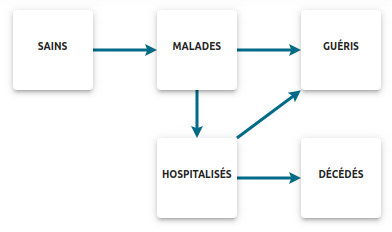
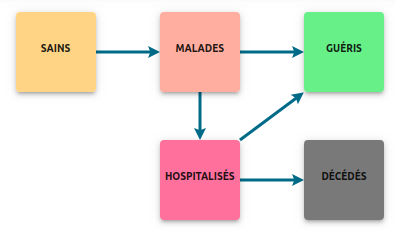
Update colors everywhere

diff --git a/src/screens/simulation/Chart.js b/src/screens/simulation/Chart.js
@@ -6,6 +6,8 @@ import { merge } from 'lodash';
 import c3 from 'c3';
 import 'c3/c3.css';
 
+import colors from './colors';
+
 const generateDateInterval = (startDate, numberOfDays) =>
     eachDayOfInterval({
         start: startDate,
@@ -32,42 +34,42 @@ const data = ({ t, values, startDate }) => {
             {
                 label: capitalize(t('chart.exposed')),
                 data: SE,
-                backgroundColor: 'rgba(255, 206, 86, 0.6)',
+                backgroundColor: colors.exposed.main,
             },
             {
                 label: capitalize(t('chart.incub')),
                 data: INCUB,
-                backgroundColor: 'rgba(164, 18, 179, 0.6)',
+                backgroundColor: colors.incubation.main,
             },
             {
                 label: capitalize(t('chart.recovered')),
                 data: R,
-                backgroundColor: 'rgba(88, 235, 88, 0.6)',
+                backgroundColor: colors.recovered.main,
             },
             {
                 label: capitalize(t('chart.intensive_care')),
                 data: SI,
-                backgroundColor: 'rgba(54, 162, 235, 0.6)',
+                backgroundColor: colors.intensive_care.main,
             },
             {
                 label: capitalize(t('chart.normal_care')),
                 data: SM,
-                backgroundColor: 'rgba(255, 88, 132, 0.6)',
+                backgroundColor: colors.normal_care.main,
             },
             {
                 label: capitalize(t('chart.following_hospitalized')),
                 data: SS,
-                backgroundColor: 'rgba(54, 54, 255, 0.6)',
+                backgroundColor: colors.following_care.main,
             },
             {
                 label: capitalize(t('chart.dead')),
                 data: DC,
-                backgroundColor: 'rgba(88, 88, 88, 0.6)',
+                backgroundColor: colors.death.main,
             },
             {
                 label: capitalize(t('chart.infected')),
                 data: I,
-                backgroundColor: 'rgba(255, 158, 132, 0.6)',
+                backgroundColor: colors.infected.main,
             },
         ],
     };
@@ -166,15 +168,15 @@ const Chart = React.forwardRef(
                         {},
                     ),
                     order: (d1, d2) => {
-                        // Sort legend by smaller values first
+                        // Sort legend by bigger values first
                         return (
                             Math.max(
                                 0,
-                                d1.values.map((i) => i.value),
+                                d2.values.map((i) => i.value),
                             ) -
                             Math.max(
                                 0,
-                                d2.values.map((i) => i.value),
+                                d1.values.map((i) => i.value),
                             )
                         );
                     },

diff --git a/src/screens/simulation/PublicSimulation.js b/src/screens/simulation/PublicSimulation.js
@@ -17,6 +17,7 @@ import DateField from '../../components/fields/DateField';
 import ProportionField from '../../components/fields/ProportionField';
 import AutoSave from '../../components/fields/AutoSave';
 import PublicDescriptionModal from './PublicDescriptionModal';
+import colors from './colors';
 
 const useStyles = makeStyles((theme) => ({
     root: {
@@ -181,6 +182,7 @@ const Legend = ({ stats, onLegendEnter = () => {}, onLegendLeave = () => {}, mob
                             {...addMouseProps(['Exposés'])}
                             label="Sains"
                             value={stats['Exposés'] || ''}
+                            color={colors.exposed.bg}
                         />
                     </Node>
                     <Node
@@ -200,6 +202,7 @@ const Legend = ({ stats, onLegendEnter = () => {}, onLegendLeave = () => {}, mob
                             {...addMouseProps(['Incubation', 'Infectés'])}
                             label="Malades"
                             value={(stats['Incubation'] || 0) + (stats['Infectés'] || 0) || ''}
+                            color={colors.infected.bg}
                         />
                     </Node>
                     <Node name="gueri" targets={[]}>
@@ -207,6 +210,7 @@ const Legend = ({ stats, onLegendEnter = () => {}, onLegendLeave = () => {}, mob
                             {...addMouseProps(['Guéris'])}
                             label="Guéris"
                             value={stats['Guéris'] || ''}
+                            color={colors.recovered.bg}
                         />
                     </Node>
                 </div>
@@ -237,6 +241,7 @@ const Legend = ({ stats, onLegendEnter = () => {}, onLegendLeave = () => {}, mob
                                     (stats['Soins intensifs'] || 0) +
                                     (stats['Soins medicaux'] || 0) || ''
                             }
+                            color={colors.intensive_care.bg}
                         />
                     </Node>
                     <Node name="decede" targets={[]}>
@@ -244,6 +249,7 @@ const Legend = ({ stats, onLegendEnter = () => {}, onLegendLeave = () => {}, mob
                             {...addMouseProps(['Décédés'])}
                             label="Décédés"
                             value={stats['Décédés'] || ''}
+                            color={colors.death.bg}
                         />
                     </Node>
                 </div>

diff --git a/src/screens/simulation/Diagram.js b/src/screens/simulation/Diagram.js
@@ -5,6 +5,7 @@ import { GraphProvider } from '../../components/Graph/GraphProvider';
 import { Node } from '../../components/Graph/Node';
 import { Edges } from '../../components/Graph/Edges';
 import { SwitchPercentField } from '../../components/fields/SwitchPercentField';
+import colors from './colors';
 
 const sirEdgesColorCode = '#00688B';
 const hEdgesColorCode = 'red';
@@ -38,33 +39,6 @@ const GridWithLeftGutter = ({ children, ...props }) => (
         </Grid>
     </Grid>
 );
-
-const colors = {
-    incubation: {
-        main: 'rgb(164, 18, 179)',
-        bg: 'rgba(164, 18, 179, 0.6)',
-    },
-    normal_care: {
-        main: 'rgb(255, 88, 132)',
-        bg: 'rgba(255, 88, 132, 0.6)',
-    },
-    intensive_care: {
-        main: 'rgb(54, 162, 235)',
-        bg: 'rgba(54, 162, 235, 0.6)',
-    },
-    following_care: {
-        main: 'rgb(54, 54, 255)',
-        bg: 'rgba(54, 54, 255, 0.6)',
-    },
-    death: {
-        main: 'rgb(88, 88, 88)',
-        bg: 'rgba(88, 88, 88, 0.6)',
-    },
-    recovered: {
-        main: 'rgb(88, 235, 88)',
-        bg: 'rgba(88, 235, 88, 0.6)',
-    },
-};
 
 export default ({
     blocks: {
@@ -114,7 +88,7 @@ export default ({
                     },
                 ]}
             >
-                <BlockContainer color="rgba(255, 206, 86, 0.6)">{exposedPopulation}</BlockContainer>
+                <BlockContainer color={colors.exposed.bg}>{exposedPopulation}</BlockContainer>
             </Node>
         </Grid>
         <Grid container item xs={12} justify="center" style={{ margin: linesMargin }}>

diff --git a/src/screens/simulation/colors.js b/src/screens/simulation/colors.js
@@ -1,26 +1,34 @@
 export default {
+    exposed: {
+        main: 'rgb(255, 206, 86)',
+        bg: 'rgba(255, 206, 86, 0.8)',
+    },
     incubation: {
         main: 'rgb(164, 18, 179)',
-        bg: 'rgba(164, 18, 179, 0.6)',
+        bg: 'rgba(164, 18, 179, 0.8)',
+    },
+    infected: {
+        main: 'rgb(255, 158, 132)',
+        bg: 'rgba(255, 158, 132, 0.8)',
     },
     normal_care: {
-        main: 'rgb(255, 88, 132)',
-        bg: 'rgba(255, 88, 132, 0.6)',
+        main: 'rgb(54, 54, 255)',
+        bg: 'rgba(54, 54, 255, 0.8)',
     },
     intensive_care: {
-        main: 'rgb(54, 162, 235)',
-        bg: 'rgba(54, 162, 235, 0.6)',
+        main: 'rgb(255, 88, 132)',
+        bg: 'rgba(255, 88, 132, 0.8)',
     },
     following_care: {
-        main: 'rgb(54, 54, 255)',
-        bg: 'rgba(54, 54, 255, 0.6)',
+        main: 'rgb(54, 162, 235)',
+        bg: 'rgba(54, 162, 235, 0.8)',
     },
     death: {
         main: 'rgb(88, 88, 88)',
-        bg: 'rgba(88, 88, 88, 0.6)',
+        bg: 'rgba(88, 88, 88, 0.8)',
     },
     recovered: {
         main: 'rgb(88, 235, 88)',
-        bg: 'rgba(88, 235, 88, 0.6)',
+        bg: 'rgba(88, 235, 88, 0.8)',
     },
 };
